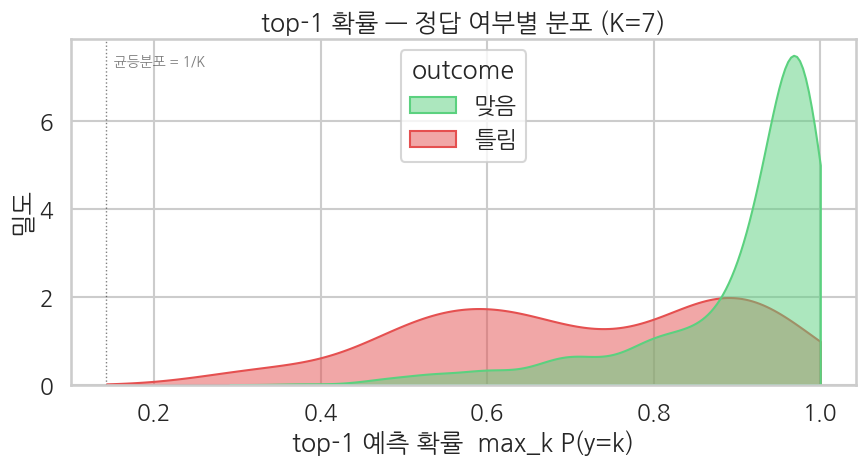
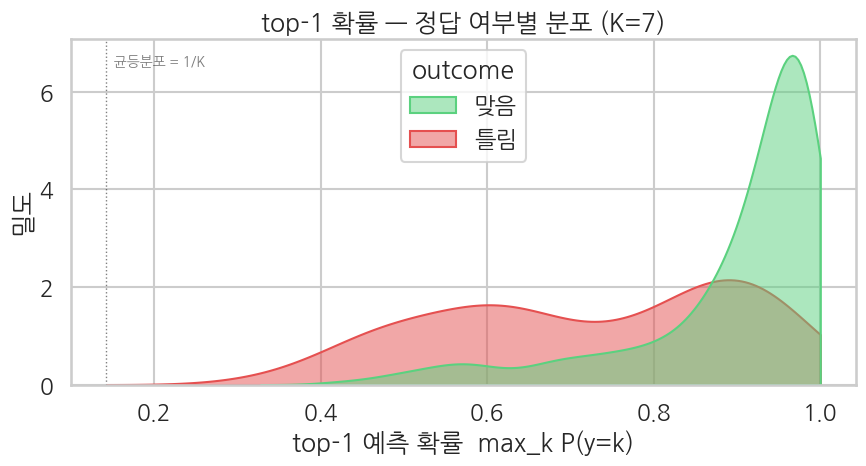
Ch 16 tex·EPUB 재생성 — 새 실행본 반영 + #156·#160 손수정 재적용 (검수 2026-09)
- tex: notebook_to_tex(pandoc 2.19.2, 수정 전 소스로 커밋본 바이트 일치 검증 후 사용)
  재생성. #177 시드 줄·#178·#179 재작성 서술·새 실측(acc 0.8570 등) 반영
- 재생성이 되돌린 2곳 재적용: #156 \index klue/klue, #160 \ref{ch:15}--\ref{ch:18}장
- figures: 새 실행본의 혼동 행렬·top-1 분포 이미지
- EPUB 3종(preview·draft·compact) pandoc 3.10.1 빌드 성공. ch020.xhtml 검증:
  새 지표·시드 줄·재작성 서술 포함, KLUE-TC·0.4-0.7·옛 혼동 서술 0,
  15–18장 링크 렌더링 정상, textbackslash 잔여 0, MathML 34개

Claude-Session: https://claude.ai/code/session_0176E2yhrp7xBC9jX4y4GbVk

diff --git a/book/chapters/ch16_ko_multiclass.tex b/book/chapters/ch16_ko_multiclass.tex
@@ -283,6 +283,7 @@ First sample label: 3  (int 0-6)
 
 \Needspace{11\baselineskip}
 \begin{lstlisting}
+torch.manual_seed(SEED); np.random.seed(SEED)
 model = AutoModelForSequenceClassification.from_pretrained(
     "klue/bert-base",
     num_labels=len(LABEL_NAMES),
@@ -301,7 +302,7 @@ def param_summary(m):
 \noindent\emph{앞뒤 블록은 모두 앞에서 만든 중간 값을 다음 계산으로 넘기는 단계입니다. 길이를 나누어 같은 흐름을 단계별로 확인합니다.}
 
 \Needspace{11\baselineskip}
-\begin{lstlisting}[firstnumber=14]
+\begin{lstlisting}[firstnumber=15]
 total, trainable = param_summary(model)
 print(
     f"Parameters:           {total:>13,}  ("
@@ -317,6 +318,7 @@ print(f"id2label:             {model.config.id2label}")
 
 \noindent\textbf{출력.}
 \begin{bookoutputbox}
+model.safetensors: downloading bytes:           |  0.00B
 Key                                        | Status     | 
 -------------------------------------------+------------+-
 classifier.bias                            | MISSING    | 
@@ -465,17 +467,17 @@ print(classification_report(
 \begin{bookoutputbox}
 precision    recall  f1-score   support
 
-  IT/Science     0.7857    0.9483    0.8594        58
-     Economy     0.8210    0.8471    0.8339       157
-     Society     0.8830    0.8300    0.8557       400
-Life&Culture     0.8129    0.8630    0.8372       146
-       World     0.9053    0.8866    0.8958        97
+  IT/Science     0.7778    0.9655    0.8615        58
+     Economy     0.8261    0.8471    0.8365       157
+     Society     0.8803    0.8275    0.8531       400
+Life&Culture     0.8301    0.8699    0.8495       146
+       World     0.9082    0.9175    0.9128        97
       Sports     0.9459    0.9459    0.9459        74
-    Politics     0.7941    0.7941    0.7941        68
+    Politics     0.7727    0.7500    0.7612        68
 
-    accuracy                         0.8560      1000
-   macro avg     0.8497    0.8736    0.8603      1000
-weighted avg     0.8582    0.8560    0.8562      1000
+    accuracy                         0.8570      1000
+   macro avg     0.8487    0.8748    0.8601      1000
+weighted avg     0.8588    0.8570    0.8569      1000
 \end{bookoutputbox}
 \par\vspace{0.9em}
 
@@ -503,18 +505,18 @@ weighted avg     0.8582    0.8560    0.8562      1000
 \begin{itemize}
 \tightlist
 \item
-  \textbf{대각선 셀} = 그 카테고리의 재현율. 모든 셀이 0.85+ 면 잘 학습된 것.
+  \textbf{대각선 셀} = 그 카테고리의 재현율. 표본이 많은 카테고리일수록 안정적이고, 표본이 적은 카테고리는 흔들립니다 --- 위 행렬을 클래스별 support 와 함께 보세요.
 \item
   \textbf{오답 패턴}:
 
   \begin{itemize}
   \tightlist
   \item
-    정치 \(\leftrightarrow\) 경제: 둘 다 정책·법안·국제 이슈 다뤄 \emph{경계가 모호} --- 자연스러운 혼동
+    \textbf{다수 클래스로 쏠림} --- eval 에서 \emph{사회} 가 가장 큰 비중을 차지해, 애매한 헤드라인이 \emph{사회} 로 흘러가거나 \emph{사회} 가 다른 카테고리로 새는 쌍이 오답의 대부분입니다. 위 행렬에서 오답 상위 쌍을 확인해 보세요.
   \item
-    생활문화 \(\leftrightarrow\) 사회: 사회 이슈 vs 일상·문화 보도 --- 헤드라인 한 줄로는 사람도 혼동하는 경계
+    \textbf{의미가 가까운 경계} --- 생활문화 \(\leftrightarrow\) 사회처럼 일상·문화 보도와 사회 이슈는 헤드라인 한 줄로는 사람도 헷갈립니다.
   \item
-    IT과학 \(\leftrightarrow\) 경제: 기업·산업 뉴스가 양쪽에 걸침 (예: “삼성전자 4분기 실적 발표”)
+    \textbf{비대칭 혼동} --- 한 방향으로만 새는 쌍도 있습니다 (기업·산업 뉴스가 양쪽에 걸치지만 학습된 시그널 단어가 한쪽에 쏠린 경우). FAQ Q2 참고.
   \end{itemize}
 \item
   \textbf{먼 클래스 혼동} (스포츠 \(\leftrightarrow\) 정치 등) 이 자주 보이면 라벨 노이즈나 학습 부족 신호.
@@ -544,9 +546,9 @@ K=7 에선 \emph{어느 한 클래스에 압도적 자신} 있는 경우 vs \emp
 \begin{itemize}
 \tightlist
 \item
-  잘 학습된 모델은 \emph{correct} 곡선이 1.0 가까이 몰림. \emph{wrong} 은 더 낮은 영역 (0.4-0.7) 에 분산.
+  잘 학습된 모델은 \emph{correct} 곡선이 1.0 가까이 몰리고, \emph{wrong} 은 그보다 낮은 쪽에 분산됩니다. 위 출력에서도 correct 평균이 wrong 평균보다 뚜렷이 높습니다.
 \item
-  correct/wrong 둘 다 1.0 근처에 압축돼 있으면 \emph{over-confident} --- 틀린 답에도 자신만만한 위험 신호. K 가 클수록 (7클래스) 이런 경향이 더 잘 드러남.
+  correct/wrong 둘 다 1.0 근처에 압축돼 있으면 \emph{over-confident} --- 틀린 답에도 자신만만한 위험 신호. K 가 클수록 (7클래스) 이런 경향이 더 잘 드러남. 이 장에도 \emph{자신있게 틀린} 샘플이 있습니다 --- §5-3 에서 실제 헤드라인으로 확인합니다.
 \item
   \emph{random baseline} 인 1/K = 0.143 근처 봉우리가 보이면 모델이 \emph{판단 자체를 못 하는} 샘플 --- 학습 데이터 부족 또는 헤드라인이 너무 짧은 경우.
 \end{itemize}
@@ -659,7 +661,7 @@ for label_str, idx in samples:
 \item
   macro F1 이 weighted F1 보다 \emph{훨씬} 낮으면 무엇을 의심해야 하나요?
 \item
-  혼동 행렬에서 \emph{정치 \(\leftrightarrow\) 경제} 혼동이 많은데 \emph{스포츠 \(\leftrightarrow\) 정치} 혼동은 거의 없는 이유는?
+  혼동 행렬에서 오답이 가장 많은 쌍들의 공통점은 무엇인가요? 클래스별 표본 수와 함께 설명해 보세요.
 \item
   같은 klue/bert-base 가 NSMC binary (\ref{ch:15}장) 와 KLUE-YNAT 7분류 (\ref{ch:16}장) 에서 \emph{분류 헤드만} 다른데, 왜 두 task 모두 잘 동작하나요?
 \end{enumerate}
